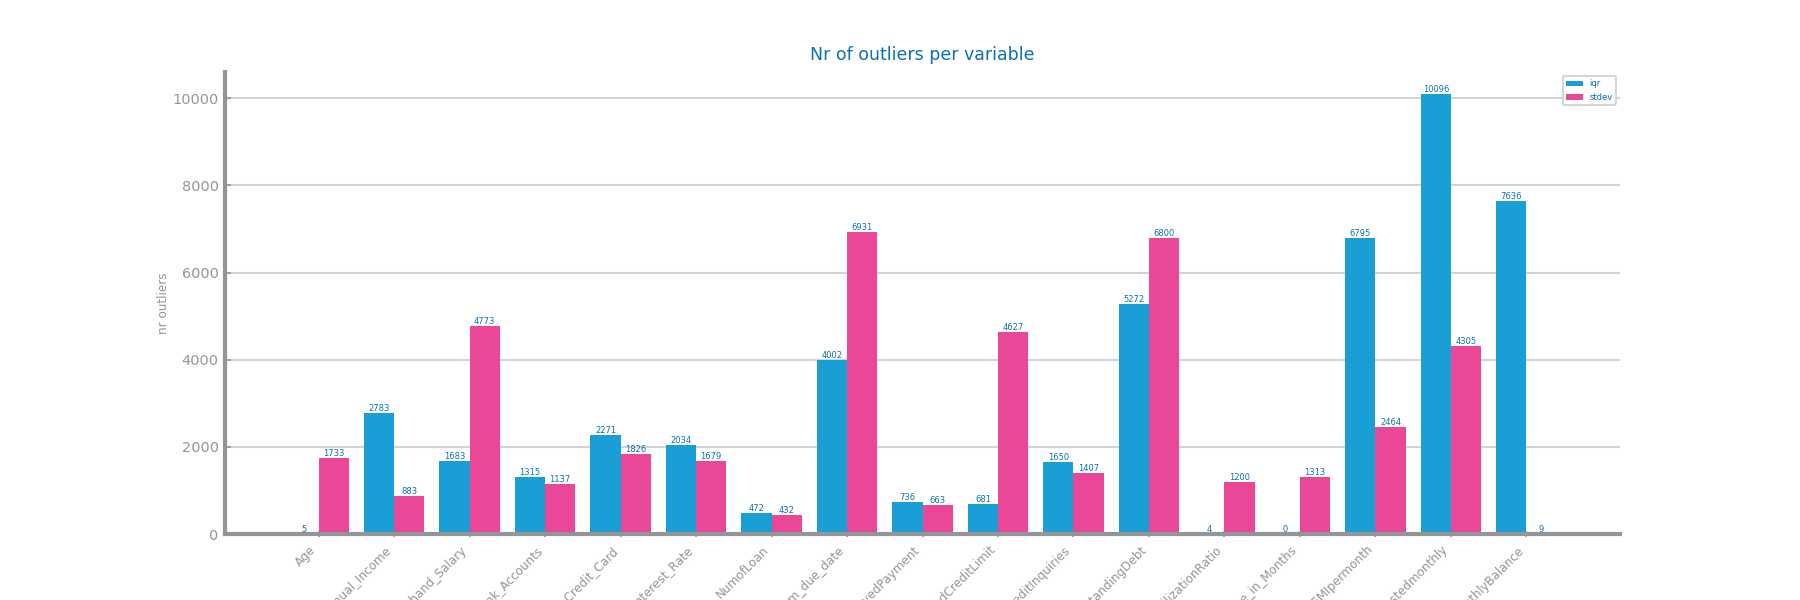
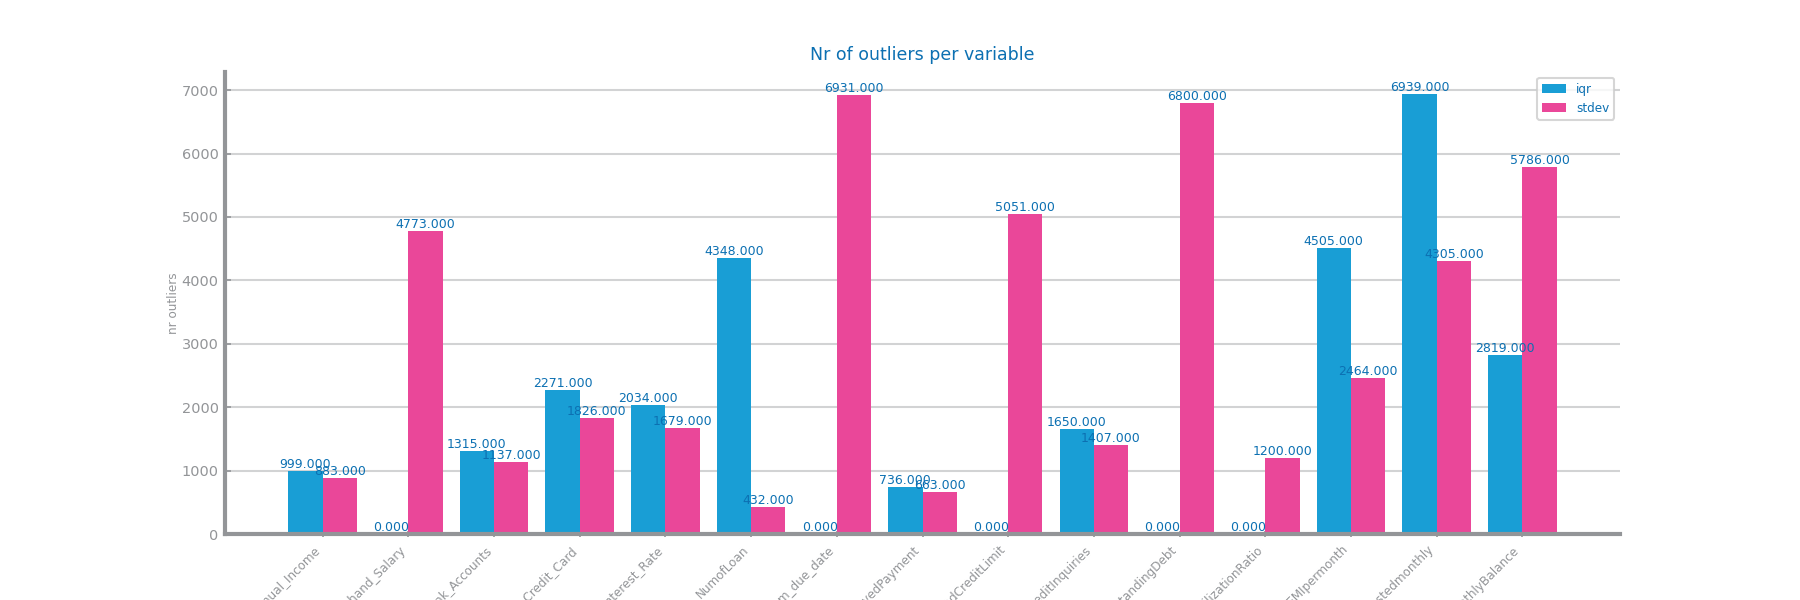
Last images

diff --git a/set2.py b/set2.py
@@ -157,7 +157,7 @@ distribution = Distribution(filename, file_tag, data)
 # distribution.num_standart_outliers_per_variable()
 
 NR_STDEV: int = 2
-IQR_FACTOR: float = 1.5
+IQR_FACTOR: float = 2.5
 # distribution.num_outliers_per_variable(NR_STDEV, IQR_FACTOR)
 
 # # Histograms - numeric
@@ -189,15 +189,22 @@ granularity = Granularity(filename, file_tag, data)
 # Scatter-plots (all x all - including class)   -
 # Correlation (all x all - including class)     -
 
-# sparsity = Sparsity(filename, file_tag, data)
-#
-# # Scatter plots to project the data along two of its defining variables
+data = data.drop(['ID', 'SSN', 'Name'], axis=1)
+print("Drop of ID, SSN and Name")
+mv_out = MV_out("data/class_credit_score.csv", file_tag, data, 2)
+data = mv_out.data_correction()
+print("Data Cleaned")
+# #
+
+sparsity = Sparsity(filename, file_tag, data)
+
+# Scatter plots to project the data along two of its defining variables
 # sparsity.analyse_property_sparsity("Credit_Score")
 #
 # encoded_data = sparsity.encode_credit()
 # print('Encoded Data Shape: ', encoded_data.shape)
 # sparsity.correlation_analysis(encoded_data)
-# sparsity.correlation_analysis_num(data)
+
 
 
 # ------------------------------------------ #
@@ -208,46 +215,43 @@ granularity = Granularity(filename, file_tag, data)
 # -- Encoding -- #
 # -------------- #
 
-# data = data.drop(['ID', 'SSN', 'Name'], axis=1)
-# print("Drop of ID, SSN and Name")
-# mv_out = MV_out("data/class_credit_score.csv", file_tag, data, 2)
-# data = mv_out.data_correction()
-# print("Data Cleaned")
-# #
-# filename = "cleaned_data.csv"
-# encoding = Encoding(filename, file_tag, data)
-#
-# def create_loan_type_columns():
-#     # Preencher os valores ausentes na coluna 'Type_of_Loan' com uma string vazia
-#     data['Type_of_Loan'] = data['Type_of_Loan'].fillna('').astype(str).str.replace('and ', '').str.replace(' ', '').str.split(',')
-#
-#     # Adicionar uma coluna 'Without_Loan' e atribuir 1 aos clientes com NumofLoan igual a 0 e célula vazia em 'Type_of_Loan'
-#     data['Without_Loan'] = data.apply(lambda row: 1 if row['NumofLoan'] == 0 and all(pd.isna(item) or (isinstance(item, str) and item == '') for item in row['Type_of_Loan']) else 0, axis=1)
-#
-#     existing_loan_types = list()
-#
-#     # Iterar sobre os tipos de empréstimos e criar uma nova coluna para cada um
-#     for loan_list in data['Type_of_Loan']:
-#         for loan_type in loan_list:
-#             # Verificar se o novo valor já existe na lista
-#             if loan_type not in existing_loan_types:
-#                 # Adicionar o novo valor à lista
-#                 existing_loan_types.append(loan_type)
-#
-#     # Iterar sobre os tipos únicos de empréstimos e criar colunas binárias
-#     for loan_type in existing_loan_types:
-#         if loan_type != '':
-#             data[loan_type] = data['Type_of_Loan'].apply(lambda x: 1 if loan_type in x else 0)
-#
-# create_loan_type_columns()
-# data.drop('Type_of_Loan', axis=1, inplace=True)
-#
-# encoded_data = encoding.encode_credit()
-# print("Encode done")
-# target = "Credit_Score"
-# encoded_data.to_csv("encoded.csv", index=False)
-# print("Encode to .csv")
 
+filename = "cleaned_data.csv"
+encoding = Encoding(filename, file_tag, data)
+
+def create_loan_type_columns():
+    # Preencher os valores ausentes na coluna 'Type_of_Loan' com uma string vazia
+    data['Type_of_Loan'] = data['Type_of_Loan'].fillna('').astype(str).str.replace('and ', '').str.replace(' ', '').str.split(',')
+
+    # Adicionar uma coluna 'Without_Loan' e atribuir 1 aos clientes com NumofLoan igual a 0 e célula vazia em 'Type_of_Loan'
+    data['Without_Loan'] = data.apply(lambda row: 1 if row['NumofLoan'] == 0 and all(pd.isna(item) or (isinstance(item, str) and item == '') for item in row['Type_of_Loan']) else 0, axis=1)
+
+    existing_loan_types = list()
+
+    # Iterar sobre os tipos de empréstimos e criar uma nova coluna para cada um
+    for loan_list in data['Type_of_Loan']:
+        for loan_type in loan_list:
+            # Verificar se o novo valor já existe na lista
+            if loan_type not in existing_loan_types:
+                # Adicionar o novo valor à lista
+                existing_loan_types.append(loan_type)
+
+    # Iterar sobre os tipos únicos de empréstimos e criar colunas binárias
+    for loan_type in existing_loan_types:
+        if loan_type != '':
+            data[loan_type] = data['Type_of_Loan'].apply(lambda x: 1 if loan_type in x else 0)
+
+create_loan_type_columns()
+data.drop('Type_of_Loan', axis=1, inplace=True)
+
+encoded_data = encoding.encode_credit()
+print("Encode done")
+target = "Credit_Score"
+encoded_data.to_csv("encoded.csv", index=False)
+print("Encode to .csv")
+
+sparsity.correlation_analysis(encoded_data)
+# sparsity.analyse_property_sparsity("Credit_Score")
 
 # --------------------- #
 # --------- MV -------- #
@@ -457,19 +461,19 @@ decisionTrees = decisionTrees(file_tag, "data/credit_train.csv", "data/credit_te
 # auc -> DT best with gini and d=24
 # f1 -> DT best with gini and d=24
 
-dt_metric = "accuracy"
-
-best_model, best_params = decisionTrees.specific_metric_DT_study(dt_metric)
-
-# decisionTrees.performance_analysis(best_model, best_params)
-
-decisionTrees.variables_importance(best_model, dt_metric)
-
-decisionTrees.simple_tree(best_model)
-
-decisionTrees.tree_importance(best_model, dt_metric)
-
-decisionTrees.overfitting_study(dt_metric, best_params)
+# dt_metric = "accuracy"
+#
+# best_model, best_params = decisionTrees.specific_metric_DT_study(dt_metric)
+#
+# # decisionTrees.performance_analysis(best_model, best_params)
+#
+# decisionTrees.variables_importance(best_model, dt_metric)
+#
+# decisionTrees.simple_tree(best_model)
+#
+# decisionTrees.tree_importance(best_model, dt_metric)
+#
+# decisionTrees.overfitting_study(dt_metric, best_params)
 
 
 # -------------------- #
